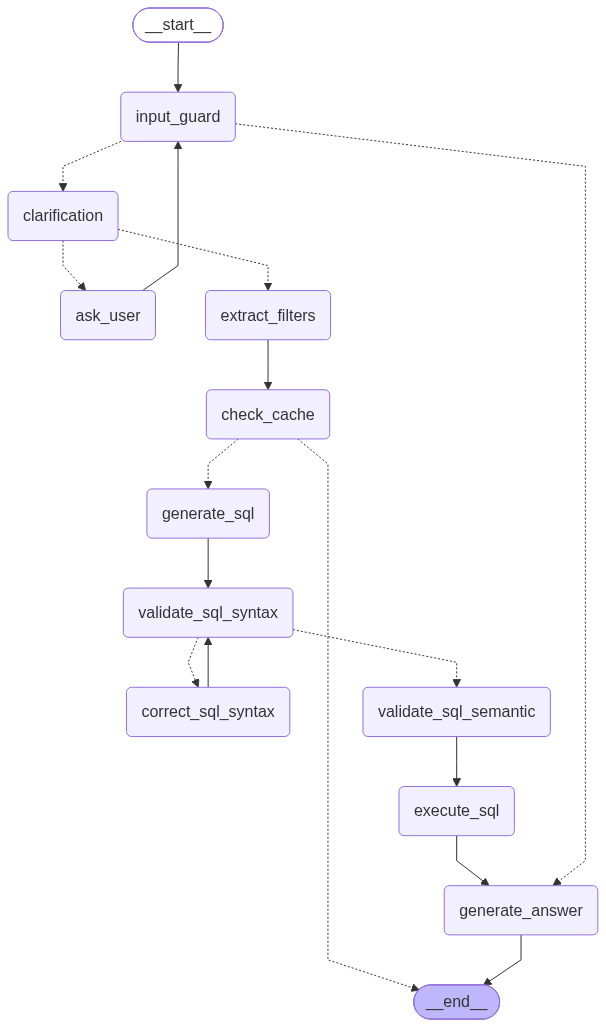
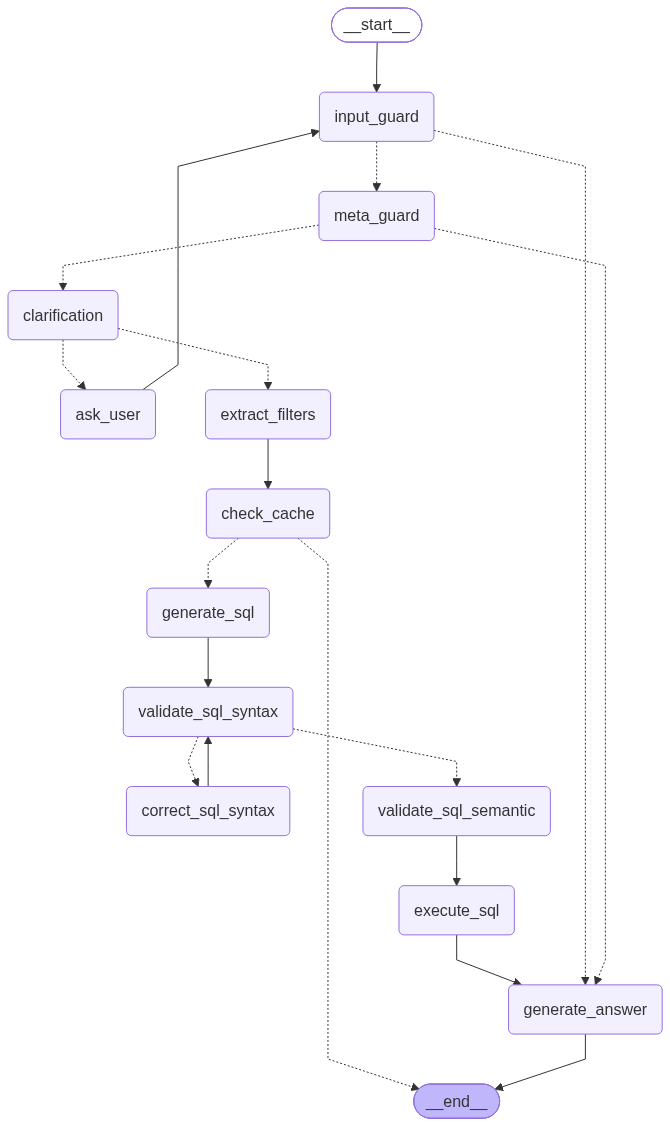
protect AI

diff --git a/app/services/redis_service.py b/app/services/redis_service.py
@@ -4,21 +4,40 @@ from app.structured_ouput import QueryFilters
 
 
 # ---------------------------------------------------------------------------
-# Vectorizer & semantic cache
+# Lazy Vectorizer & semantic cache (graceful if Redis is down)
 # ---------------------------------------------------------------------------
 
-_vectorizer = OllamaTextVectorizer(model="nomic-embed-text")
+_semantic_cache = None
 
-semantic_cache = SemanticCache(
-    name="text_to_sql_cache",
-    redis_url="redis://localhost:6379",
-    vectorizer=_vectorizer,
-    # Threshold: only surface hits that are very close semantically.
-    # Exact-value differences (year, numbers) are caught by the filter guard
-    # below, so we can afford a slightly generous threshold here.
-    distance_threshold=0.12,
-    ttl = 360
-)
+
+def get_semantic_cache():
+    global _semantic_cache
+    if _semantic_cache is not None:
+        return _semantic_cache
+    try:
+        vectorizer = OllamaTextVectorizer(model="nomic-embed-text")
+        _semantic_cache = SemanticCache(
+            name="text_to_sql_cache",
+            redis_url="redis://localhost:6379",
+            vectorizer=vectorizer,
+            distance_threshold=0.12,
+            ttl=360,
+        )
+        return _semantic_cache
+    except Exception as e:
+        print(f"[Cache WARNING] Could not connect to Redis ({e}). Semantic cache is bypassed.")
+        return None
+
+
+class _LazySemanticCacheProxy:
+    def __getattr__(self, name):
+        cache = get_semantic_cache()
+        if cache is None:
+            raise ConnectionError("Redis cache unavailable")
+        return getattr(cache, name)
+
+
+semantic_cache = _LazySemanticCacheProxy()
 
 
 # ---------------------------------------------------------------------------
@@ -28,7 +47,7 @@ semantic_cache = SemanticCache(
 def build_cache_filters(qf: QueryFilters) -> dict:
     """
     Convert a QueryFilters object into a flat dict of strings suitable for
-    redisvl Tag filters.  All values are stringified so redisvl can index them.
+    redisvl Tag filters. All values are stringified so redisvl can index them.
     """
     return {
         "years":       ",".join(str(y) for y in sorted(qf.years))       or "none",
@@ -43,25 +62,30 @@ def check_semantic_cache(resolved_prompt: str, qf: QueryFilters) -> str | None:
     Look up the cache using the resolved (post-clarification) prompt plus
     exact filter matching on years / numbers / entities / date_ranges.
 
-    Returns the cached answer string, or None on a miss.
+    Returns the cached answer string, or None on a miss or connection failure.
     """
-    results = semantic_cache.check(prompt=resolved_prompt, num_results=5)
-
-    if not results:
+    cache = get_semantic_cache()
+    if cache is None:
         return None
 
-    expected = build_cache_filters(qf)
+    try:
+        results = cache.check(prompt=resolved_prompt, num_results=5)
+        if not results:
+            return None
 
-    for hit in results:
-        stored = hit.get("metadata", {})
-        # Every filter dimension must match exactly.
-        if all(stored.get(k) == v for k, v in expected.items()):
-            print(f"[Cache HIT]  distance={hit.get('vector_distance'):.4f}  filters={expected}")
-            return hit.get('response')
+        expected = build_cache_filters(qf)
 
-    print(f"[Cache MISS] semantic neighbours found but filters did not match. expected={expected}")
-    return None
+        for hit in results:
+            stored = hit.get("metadata", {})
+            if all(stored.get(k) == v for k, v in expected.items()):
+                print(f"[Cache HIT]  distance={hit.get('vector_distance'):.4f}  filters={expected}")
+                return hit.get("response")
 
+        print(f"[Cache MISS] semantic neighbours found but filters did not match. expected={expected}")
+        return None
+    except Exception as e:
+        print(f"[Cache WARNING] Error during cache lookup: {e}")
+        return None
 
 
 def store_semantic_cache(resolved_prompt: str, answer: str, qf: QueryFilters) -> None:
@@ -69,18 +93,21 @@ def store_semantic_cache(resolved_prompt: str, answer: str, qf: QueryFilters) ->
     Store an answer in the semantic cache with filter metadata so future
     lookups can enforce exact value matching.
     """
-    filters = build_cache_filters(qf)
-    semantic_cache.store(
-        prompt=resolved_prompt,
-        response=answer,
-        metadata=filters,
-    )
-    print(f"[Cache STORE] filters={filters}")
+    cache = get_semantic_cache()
+    if cache is None:
+        return
 
+    try:
+        filters = build_cache_filters(qf)
+        cache.store(
+            prompt=resolved_prompt,
+            response=answer,
+            metadata=filters,
+        )
+        print(f"[Cache STORE] filters={filters}")
+    except Exception as e:
+        print(f"[Cache WARNING] Error storing to cache: {e}")
 
-# ---------------------------------------------------------------------------
-# Legacy simple-cache helpers (kept for backward compat, used nowhere new)
-# ---------------------------------------------------------------------------
 
 def normalize_question(question: str) -> str:
     return question.strip().lower()

diff --git a/app/guardrails/meta_guard.py b/app/guardrails/meta_guard.py
@@ -1,0 +1,53 @@
+from transformers import pipeline
+
+MODEL_ID = "protectai/deberta-v3-base-prompt-injection-v2"
+
+# Initialize pipeline once so it is reused across requests
+classifier = pipeline(
+    "text-classification",
+    model=MODEL_ID,
+)
+
+
+def check_meta_guard(text: str, threshold: float = 0.5) -> dict:
+    """
+    Classify whether input text contains a prompt injection using DeBERTa.
+    Returns:
+        dict: {
+            "is_safe": bool,
+            "label": str,
+            "score": float,
+            "reason": str | None,
+        }
+    """
+    if not isinstance(text, str) or not text.strip():
+        return {
+            "is_safe": True,
+            "label": "SAFE",
+            "score": 1.0,
+            "reason": None,
+        }
+
+    try:
+        results = classifier(text, truncation=True, max_length=512)
+        top = results[0]
+        label = str(top["label"]).upper()
+        score = float(top["score"])
+
+        is_injection = (label == "INJECTION" and score >= threshold)
+
+        return {
+            "is_safe": not is_injection,
+            "label": label,
+            "score": score,
+            "reason": f"Prompt injection detected by model ({score:.1%} confidence)." if is_injection else None,
+        }
+    except Exception as e:
+        print(f"[MetaGuard] Classifier execution error: {e}")
+        # Default to safe if model fails so transient errors don't crash requests
+        return {
+            "is_safe": True,
+            "label": "ERROR",
+            "score": 0.0,
+            "reason": None,
+        }

diff --git a/app/graph.py b/app/graph.py
@@ -17,6 +17,7 @@ from app.nodes.validate_sql_semantic_node import validate_sql_semantic
 from app.nodes.extract_filters_node import extract_query_filters
 from app.nodes.check_cache_node import check_cache_node
 from app.nodes.input_guard_node import input_guard_node
+from app.nodes.meta_guard_node import meta_guard_node
 from langgraph.checkpoint.postgres import PostgresSaver
 from psycopg_pool import ConnectionPool
 import os
@@ -42,12 +43,22 @@ graph.add_node('correct_sql_syntax', correct_sql_syntax)
 graph.add_node('validate_sql_semantic', validate_sql_semantic)
 graph.add_node('execute_sql', execute_sql)
 graph.add_node('input_guard', input_guard_node) 
+graph.add_node('meta_guard', meta_guard_node)
 
 
 graph.add_edge(START, 'input_guard')
 graph.add_conditional_edges(
     "input_guard",
-    lambda x: "clarification" if x.input_safe and not x.is_greeting else "generate_answer",
+    lambda x: "generate_answer" if (not x.input_safe or x.is_greeting) else "meta_guard",
+    {
+        "meta_guard": "meta_guard",
+        "generate_answer": "generate_answer",
+    }
+)
+
+graph.add_conditional_edges(
+    "meta_guard",
+    lambda x: "clarification" if x.input_safe else "generate_answer",
     {
         "clarification": "clarification",
         "generate_answer": "generate_answer",

diff --git a/app/nodes/meta_guard_node.py b/app/nodes/meta_guard_node.py
@@ -1,0 +1,27 @@
+from app.guardrails.meta_guard import check_meta_guard
+from app.state import state
+
+
+def meta_guard_node(graph_state: state) -> dict:
+    """
+    Model-based prompt injection guard node (DeBERTa).
+    Evaluates the question (or clarification) using meta_guard classifier.
+    Sets input_safe and input_safe_reason on graph state.
+    """
+    print("\n========== ENTERED META GUARD ==========")
+
+    # Check clarification if returning from ask_user, otherwise original question
+    if graph_state.user_clarification:
+        text_to_check = graph_state.user_clarification
+        print(f"[MetaGuard] Evaluating user clarification: {text_to_check!r}")
+    else:
+        text_to_check = graph_state.question
+        print(f"[MetaGuard] Evaluating user question: {text_to_check!r}")
+
+    result = check_meta_guard(text_to_check)
+    print(f"[MetaGuard] is_safe={result['is_safe']}, label={result['label']}, score={result['score']:.4f}")
+
+    return {
+        "input_safe": result["is_safe"],
+        "input_safe_reason": result["reason"],
+    }

diff --git a/app/nodes/generate_answer_node.py b/app/nodes/generate_answer_node.py
@@ -27,12 +27,9 @@ def generate_answer(graph_state: state):
             "messages": [AIMessage(content=greeting_text)],
         }
 
-    # 2. Blocked inputs: return a clear, polite rejection message immediately
+    # 2. Blocked inputs (from input_guard or meta_guard): return a hardcoded rejection message
     if not input_safe:
-        rejection_text = (
-            "I'm sorry, but I cannot process this request as it contains "
-            "restricted instructions or violates safety guidelines."
-        )
+        rejection_text = "I'm sorry, but I cannot answer this request as it violates safety guidelines."
         return {
             "answer": rejection_text,
             "messages": [AIMessage(content=rejection_text)],
